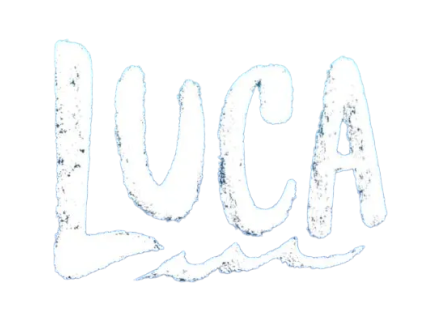
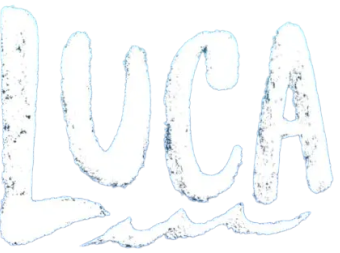
Desafio Finalizado

diff --git a/style.css b/style.css
@@ -1,4 +1,225 @@
-*{
+* {
   margin: 0;
   padding: 0;
+  box-sizing: border-box;
+  font-size: 62.5%;
+}
+
+body {
+  font-family: "Montserrat", sans-serif;
+  background: url(/images/background.jpg) no-repeat;
+  background-size: cover;
+  width: 100vw;
+  height: 100vh;
+  color: #fff;
+  font-size: 1.6rem;
+  overflow: hidden;
+}
+
+.container {
+  margin: 4rem 12.6rem 17rem 7.6rem;
+}
+
+header {
+  display: flex;
+  justify-content: space-between;
+}
+
+header .logo img {
+  width: 13rem;
+  height: 7.4rem;
+}
+
+header .menu img {
+  width: 4.6rem;
+  height: 2.7rem;
+}
+
+main {
+  margin-top: 5.7rem;
+  display: flex;
+  justify-content: space-between;
+  width: 100%;
+  height: auto;
+}
+
+section .info {
+  margin-top: 14.1rem;
+}
+
+.imdb {
+  display: flex;
+  align-items: center;
+  gap: 1.8rem;
+  padding-bottom: 1.8rem;
+}
+
+.imdb span {
+  font-size: 2rem;
+  font-weight: 500;
+  line-height: 2.4rem;
+}
+
+.release-date {
+  font-size: 2rem;
+  font-weight: 400;
+  line-height: 2.4rem;
+}
+
+.title {
+  padding: 5rem 0 3rem 0;
+}
+
+.summary {
+  max-width: 40rem;
+  padding-bottom: 4rem;
+}
+
+.summary p {
+  font-size: 2rem;
+  font-weight: 400;
+  line-height: 3.2rem;
+}
+
+button {
+  display: flex;
+  align-items: center;
+  justify-content: center;
+
+  width: 25rem;
+  height: 7rem;
+
+  border: none;
+  border-radius: 5rem;
+  background: linear-gradient(154.23deg, #0f3a7b -58.45%, #0cffff 374.49%);
+  box-shadow: 0px 3px 50px rgba(0, 0, 0, 0.160784);
+
+  font-size: 2rem;
+  font-weight: 500;
+  line-height: 2.4rem;
+  color: #fff;
+
+  gap: 3rem;
+}
+
+section .movies {
+  display: flex;
+  flex-direction: column;
+}
+
+.movies {
+  display: flex;
+  flex-direction: column;
+  gap: 3rem;
+  overflow-y: scroll;
+  height: 70rem;
+}
+
+::-webkit-scrollbar {
+  width: 6px;
+  height: 6px;
+}
+.movies::-webkit-scrollbar-button {
+  width: 0px;
+  height: 0px;
+}
+.movies::-webkit-scrollbar-thumb {
+  background: #e1e1e1;
+  border: 0px none #ffffff;
+  border-radius: 50px;
+}
+.movies::-webkit-scrollbar-thumb:hover {
+  background: #ffffff;
+}
+.movies::-webkit-scrollbar-thumb:active {
+  background: #000000;
+}
+.movies::-webkit-scrollbar-track {
+  background: #bfbfbf;
+  border: 0px none #ffffff;
+  border-radius: 0px;
+}
+.movies::-webkit-scrollbar-track:hover {
+  background: #bfbfbf;
+}
+.movies::-webkit-scrollbar-track:active {
+  background: #ffffff;
+}
+.movies::-webkit-scrollbar-corner {
+  background: transparent;
+}
+
+section h2 {
+  font-size: 2.8rem;
+  font-weight: 700;
+  line-height: 3.4rem;
+  padding-bottom: 3rem;
+}
+
+.movies-players {
+  display: flex;
+  flex-direction: column;
+
+  background-repeat: no-repeat;
+  width: 26.5rem;
+  height: 14.9rem;
+  border-radius: 0.8rem;
+  position: relative;
+  margin-right: 4rem;
+
+  min-height: 15rem;
+
+  cursor: pointer;
+}
+
+.thumbnail {
+  display: flex;
+  justify-content: center;
+  align-items: center;
+}
+
+.thumbnail img {
+  content: "";
+  position: absolute;
+  width: 3.5rem;
+  height: 3.5rem;
+  top: 5.7rem;
+  left: 11.5rem;
+}
+
+.text-movie-player {
+  position: absolute;
+  z-index: 3;
+  font-size: 20px;
+  left: 0;
+  bottom: 0;
+  padding: 0 0 1.6rem 0.6rem;
+}
+
+.text-movie-player h3:nth-child(1) {
+  font-size: 1.4rem;
+  font-weight: 400;
+  line-height: 1.7rem;
+}
+
+.text-movie-player h3:nth-child(2) {
+  font-size: 1.6rem;
+  font-weight: 500;
+  line-height: 2rem;
+}
+
+#thumb-1 {
+  background: url(/images/video-thumbnail-1.jpg);
+}
+
+#thumb-2 {
+  background: url(/images/video-thumbnail-2.jpg);
+}
+
+#thumb-3 {
+  background: url(/images/video-thumbnail-3.jpg);
+}
+
+#thumb-4 {
+  background: url(/images/video-thumbnail-4.jpg);
 }

diff --git a/index.html b/index.html
@@ -2,24 +2,106 @@
 <html lang="pt-br">
 
 <head>
+  <link rel="preconnect" href="https://fonts.googleapis.com">
+  <link rel="preconnect" href="https://fonts.gstatic.com" crossorigin>
+
   <meta charset="UTF-8">
-  <meta http-equiv="X-UA-Compatible" content="IE=edge">
   <meta name="viewport" content="width=device-width, initial-scale=1.0">
-  <title>Disney+ Streaming Redesing</title>
+  <title>Disney+</title>
+
+  <link rel="stylesheet" href="./style.css">
+
+  <link href="https://fonts.googleapis.com/css2?family=Montserrat:wght@400;500;600;700&display=swap" rel="stylesheet">
 </head>
 
 <body>
-
   <div class="container">
     <header>
       <div class="logo">
-
+        <img src="/images/logo.png" alt="Logo da Disney Plus">
       </div>
 
-      <div class="menu"></div>
+      <div class="menu">
+        <img src="/images/hamburguer-menu.svg" alt="Menu com 3 linhas na horizontal">
+      </div>
     </header>
-  </div>
 
+    <main>
+      <section class="info">
+        <div class="imdb">
+          <img src="/images/IMDB-icon.png" alt="ícone amarelo com as letras IMDB na cor preta">
+
+          <span class="note">8.8</span>
+        </div>
+
+        <p class="release-date">2021 - Kids - Movie</p>
+
+        <div class="title">
+          <img src="/images/luca.png" alt="Logo escrito Luca">
+        </div>
+
+        <div class="summary">
+          <p> Luca and Alberto dream of a life of freedom, a life of adventure — and, most of all, a life with a Vespa
+            to ride.</p>
+        </div>
+
+        <button>
+          <img src="/images/play-icon.svg" alt="Botão com um ícone de play (triˆângulo)">
+          Watch Now
+        </button>
+      </section>
+
+      <section class="movies">
+        <h2>Movies</h2>
+
+        <div class="movies-players" id="thumb-1">
+          <div class="thumbnail">
+            <img src="/images/player-video.svg" alt="">
+          </div>
+
+          <div class="text-movie-player">
+            <h3>Kids</h3>
+            <h3>Spirit Untamed</h3>
+          </div>
+        </div>
+
+        <div class="movies-players" id="thumb-2">
+          <div class="thumbnail">
+            <img src="/images/player-video.svg" alt="">
+          </div>
+
+          <div class="text-movie-player">
+            <h3>Kids</h3>
+            <h3>Wish Dragon</h3>
+          </div>
+        </div>
+
+        <div class="movies-players" id="thumb-3">
+          <div class="thumbnail">
+            <img src="/images/player-video.svg" alt="">
+          </div>
+
+          <div class="text-movie-player">
+            <h3>Kids</h3>
+            <h3>Raya and the Last Dragon</h3>
+          </div>
+        </div>
+
+        <div class="movies-players" id="thumb-4">
+          <div class="thumbnail">
+            <img src="/images/player-video.svg" alt="">
+          </div>
+
+          <div class="text-movie-player">
+            <h3>Kids</h3>
+            <h3>Sponge on the Run</h3>
+          </div>
+        </div>
+
+  </div>
+  </section>
+  </main>
+  </div>
 </body>
 
 </html>
